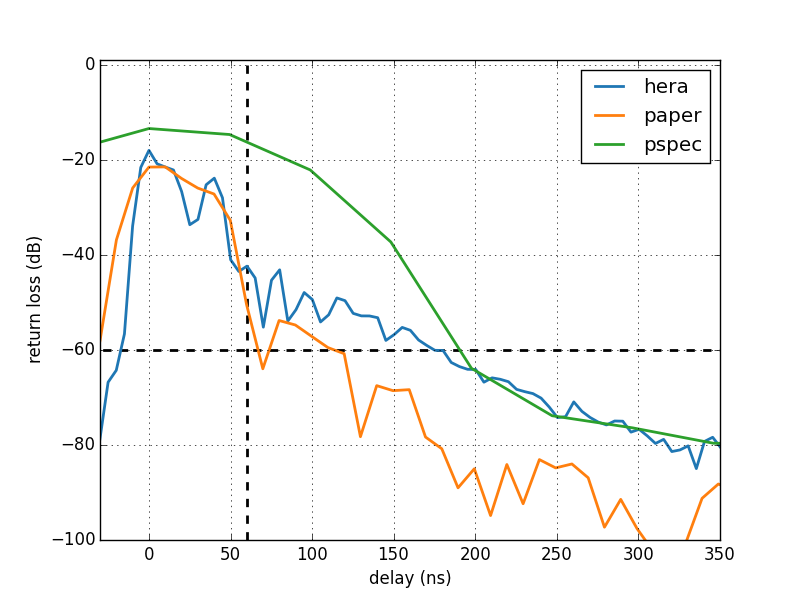
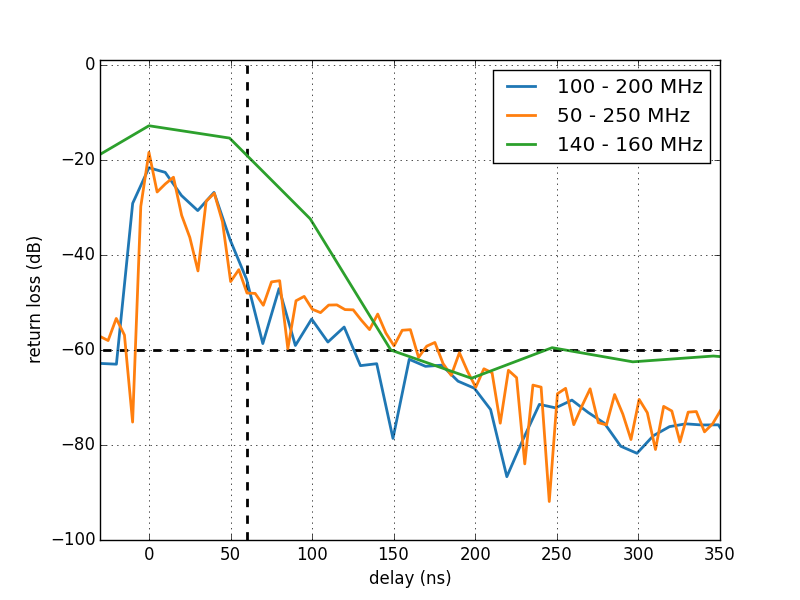
updated freq and delay3 plots

diff --git a/plots/plot_frequency.py b/plots/plot_frequency.py
@@ -18,18 +18,18 @@ phs = '_P.csv'
 freqs, amps = fromcsv(file_base + amp)
 freqs, phase= fromcsv(file_base + phs)
 
-rloss = amps * n.exp(2j*n.pi*phase/360.)
-p.figure(figsize=(10,5))
-p.plot(freqs, rloss.real, linewidth=3, label='real')
-p.plot(freqs, rloss.imag, linewidth=3, label='imag')
-p.xlabel('Frequency (GHz)' )
-p.ylabel('Return Loss (dB)')
-p.grid(1)
-p.xlim(.05,.250)
-p.ylim(-30,25)
-p.vlines(.1, -100, 100, linestyle='--', linewidth=2)
-p.vlines(.2, -100, 100, linestyle='--', linewidth=2)
-p.legend()
+#rloss = amps * n.exp(2j*n.pi*phase/360.)
+#p.figure(figsize=(10,5))
+#p.plot(freqs, rloss.real, linewidth=3, label='real')
+#p.plot(freqs, rloss.imag, linewidth=3, label='imag')
+#p.xlabel('Frequency (GHz)' )
+#p.ylabel('Return Loss (dB)')
+#p.grid(1)
+#p.xlim(.05,.250)
+#p.ylim(-30,25)
+#p.vlines(.1, -100, 100, linestyle='--', linewidth=2)
+#p.vlines(.2, -100, 100, linestyle='--', linewidth=2)
+#p.legend()
 
 
 fig, (ax1,ax2) = p.subplots(2,1, figsize=(10,5), sharex=True)
@@ -38,24 +38,29 @@ ax1.plot(freqs, amps, linewidth=3, label='amplitude', color=colors[0])
 ax1.set_ylabel('Return Loss (dB)')
 ax1.grid(1)
 #ax1.set_xlim(.05,.250)
-ax1.set_ylim(-30,25)
+ax1.set_ylim(-25,25)
 #p.setp(axes[0].get_xticklabels(), visible=False)
 ax1.vlines(.1, -100, 100, linestyle='--', linewidth=2)
 ax1.vlines(.2, -100, 100, linestyle='--', linewidth=2)
+ax1.vlines(.05, -100, 100, linestyle='--', linewidth=2, color='c')
+ax1.vlines(.25, -100, 100, linestyle='--', linewidth=2, color='c')
+ax1.vlines(.14, -100, 100, linestyle='--', linewidth=2, color='m')
+ax1.vlines(.16, -100, 100, linestyle='--', linewidth=2, color='m')
 ax1.legend()
 
 #ax2.plot(freqs, phase*n.pi/180., linewidth=3, label='phase', color=(1,128/255.,14/255.))
-ax2.plot(freqs, phase*n.pi/180., linewidth=3, label='phase', color=colors[1])
+ax2.plot(freqs, n.unwrap(phase*n.pi/180), linewidth=3, label='phase', color=colors[1])
 ax2.set_xlabel('Frequency (GHz)' )
-ax2.set_ylabel('Return Loss (dB)')
+ax2.set_ylabel('Phase (radians)')
 ax2.grid(1)
 #ax2.set_xlim(.05,.250)
-ax2.set_ylim(-n.pi, n.pi)
+ax2.set_ylim(-14, 0)
 ax2.vlines(.1, -100, 100, linestyle='--', linewidth=2)
 ax2.vlines(.2, -100, 100, linestyle='--', linewidth=2)
+ax2.vlines(.05, -100, 100, linestyle='--', linewidth=2, color='c')
+ax2.vlines(.25, -100, 100, linestyle='--', linewidth=2, color='c')
+ax2.vlines(.14, -100, 100, linestyle='--', linewidth=2, color='m')
+ax2.vlines(.16, -100, 100, linestyle='--', linewidth=2, color='m')
 ax2.legend()
-
-
-
 
 p.show()

diff --git a/plots/plot_delay3.py b/plots/plot_delay3.py
@@ -20,7 +20,8 @@ def take_delay(db, ph, fq, window='blackman-harris'):
     _dw = n.fft.ifft(d*window) / window.mean() #compensate for window amplitude
     
     if True:
-        _dw *= n.abs(_d[0]) 
+    #if False:
+        _dw *= n.abs(_dw[0])  # these should be changed to the dc bin of the windowed data.
         _d *= n.abs(_d[0]) 
 
     return n.fft.fftshift(_dw), n.fft.fftshift(_d), n.fft.fftshift(tau)
@@ -36,9 +37,10 @@ fq, amps = fromcsv(file_base + amp)
 fq, phs= fromcsv(file_base + phs)
 
 valids = {
-          'hera'  : n.where(n.logical_and(fq>.05 ,fq<.25)), 
-          'paper' : n.where(n.logical_and(fq>.1 ,fq<.2)), 
-          'pspec' : n.where(n.logical_and(fq>.14 ,fq<.16))
+          '50 - 250 MHz'  : n.where(n.logical_and(fq>.05 ,fq<.25)), 
+          '100 - 200 MHz' : n.where(n.logical_and(fq>.1 ,fq<.2)), 
+          '140 - 160 MHz' : n.where(n.logical_and(fq>.140 ,fq<.160))
+#          'second' : n.where(n.logical_and(fq>.250 ,fq<.500))
          }
 
 #fig, axes = p.subplots(3,1,figsize=(5.4,9))
@@ -57,7 +59,7 @@ valids = {
 #    axes[i].legend() 
 
 for i,v in enumerate(valids.keys()):
-    dw, d, tau = take_delay(amps[valids[v]], phs[valids[v]], fq[valids[v]])
+    dw, d, tau = take_delay(amps[valids[v]], phs[valids[v]], fq[valids[v]], window='hamming')
     print v
     p.plot(tau, 10*n.log10(n.abs(dw)**2), linewidth=2, label='%s'%v, color=colors[i])
 p.xlim(-30,350) 
